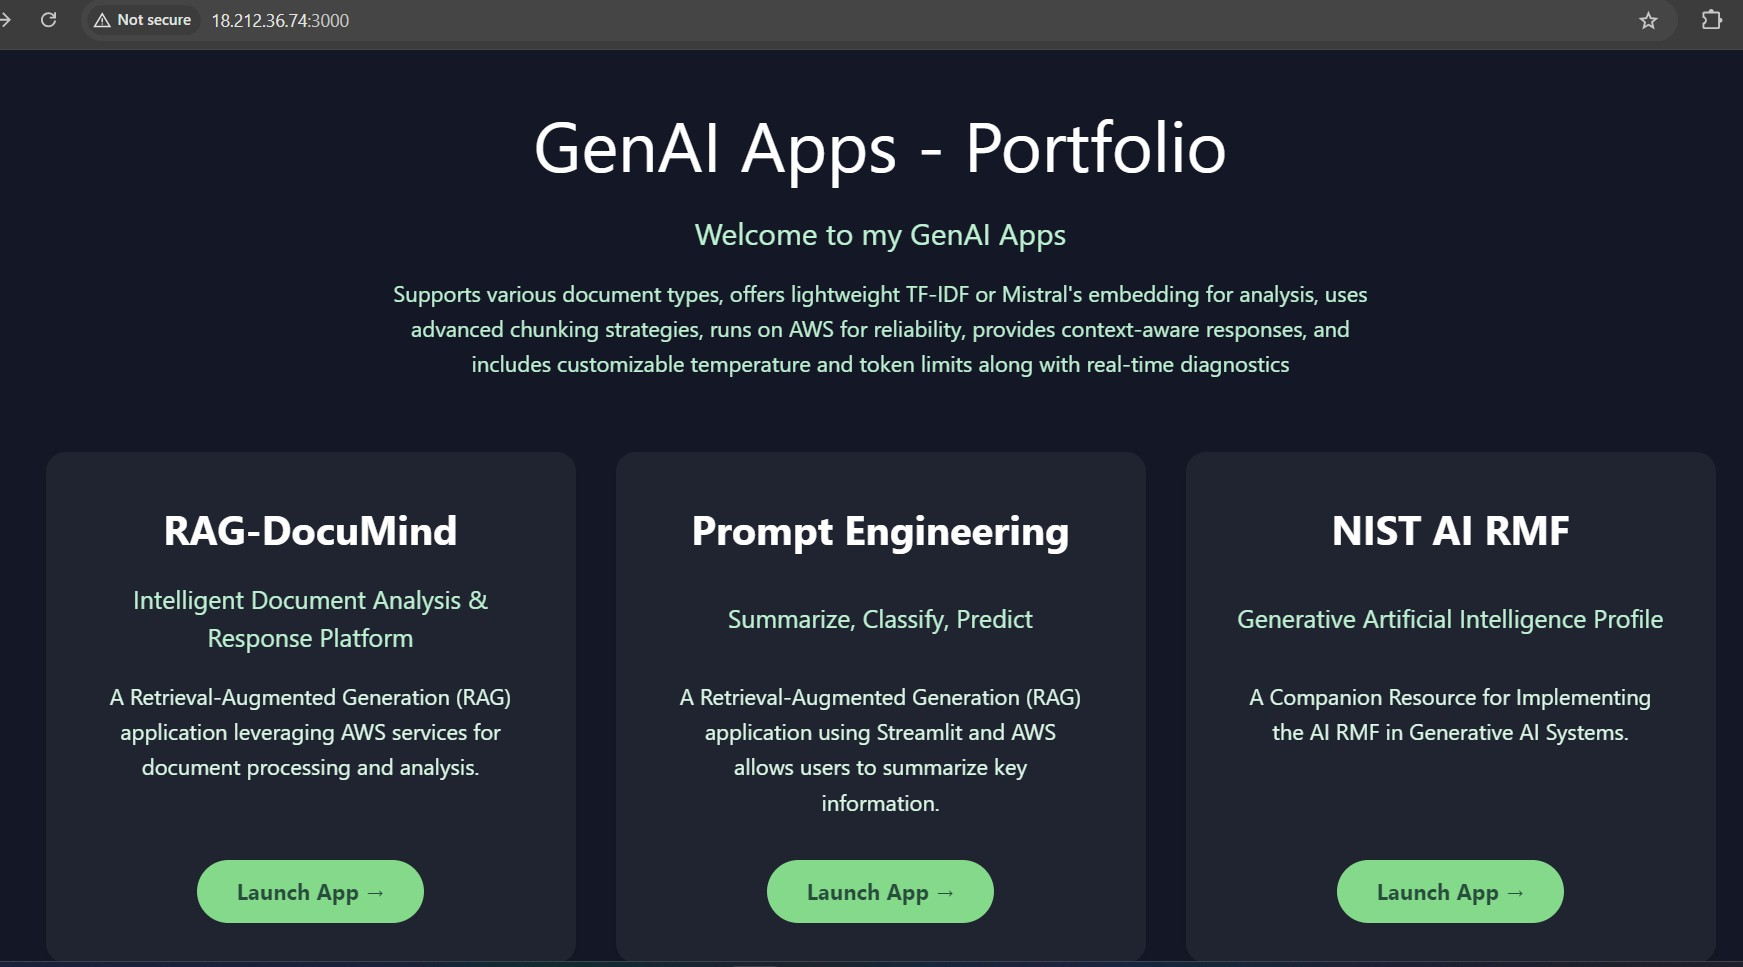
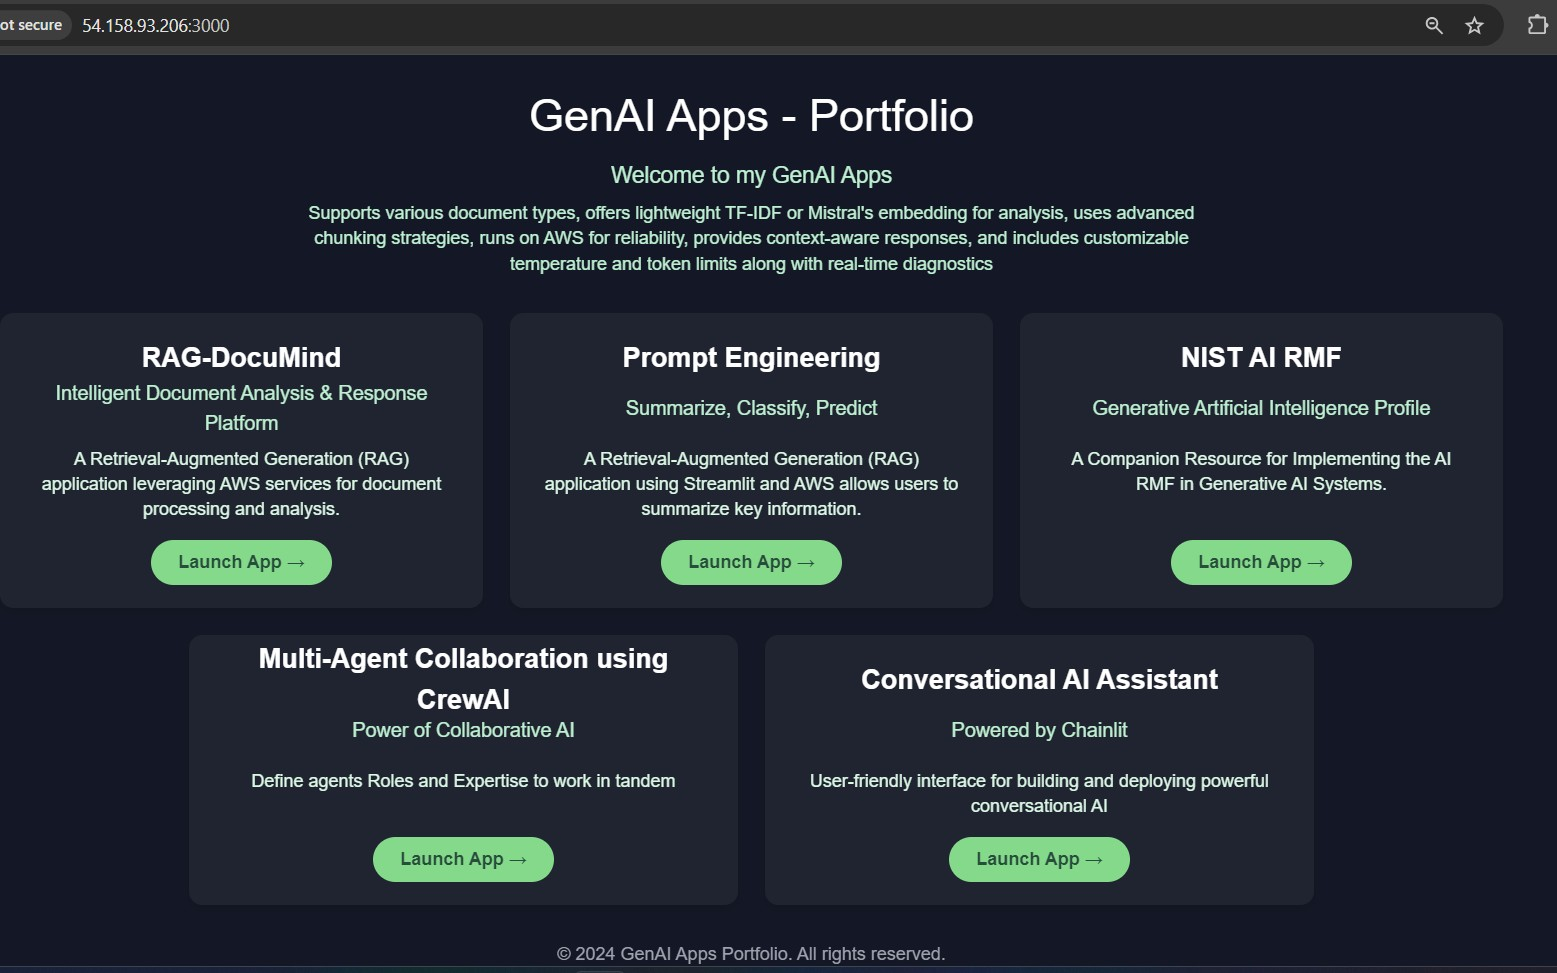
added conversational ai-portfolio update

diff --git a/GenAIApps-Portfolio/src/App.js b/GenAIApps-Portfolio/src/App.js
@@ -1,6 +1,6 @@
 import React from 'react';
 
-const EC2_PUBLIC_IP = '18.212.36.74';
+const EC2_PUBLIC_IP = '54.158.93.206';
 
 // Common styles for reusability and consistency
 const cardStyles = {
@@ -85,69 +85,100 @@ const App = () => {
         </p>
       </div>
 
-      {/* Two Column Layout with optimized spacing */}
+      {/* Three-Two Row Layout with optimized spacing */}
       <div style={{ 
         maxWidth: '1400px',
         margin: '0 auto', 
         padding: '0 2rem',
-        display: 'grid',
-        gridTemplateColumns: 'repeat(2, 1fr)',
-        gap: '1.5rem'      // Reduced from 2rem
+        display: 'flex',
+        flexDirection: 'column',
+        gap: '1.5rem'
       }}>
-        {/* First App */}
-        <div style={cardStyles}>
-          <a href={`http://${EC2_PUBLIC_IP}:8501`} style={{ textDecoration: 'none', color: 'white', height: '100%', display: 'flex', flexDirection: 'column' }}>
-            <h2 style={titleStyles}>RAG-DocuMind</h2>
-            <h3 style={subtitleStyles}>Intelligent Document Analysis & Response Platform</h3>
-            <p style={descriptionStyles}>
-              A Retrieval-Augmented Generation (RAG) application leveraging AWS services for document processing and analysis.
-            </p>
-            <div style={{ textAlign: 'center' }}>
-              <button style={buttonStyles}>Launch App →</button>
-            </div>
-          </a>
+        {/* First Row - Three Apps */}
+        <div style={{
+          display: 'grid',
+          gridTemplateColumns: 'repeat(3, 1fr)',
+          gap: '1.5rem'
+        }}>
+          {/* First App */}
+          <div style={cardStyles}>
+            <a href={`http://${EC2_PUBLIC_IP}:8501`} style={{ textDecoration: 'none', color: 'white', height: '100%', display: 'flex', flexDirection: 'column' }}>
+              <h2 style={titleStyles}>RAG-DocuMind</h2>
+              <h3 style={subtitleStyles}>Intelligent Document Analysis & Response Platform</h3>
+              <p style={descriptionStyles}>
+                A Retrieval-Augmented Generation (RAG) application leveraging AWS services for document processing and analysis.
+              </p>
+              <div style={{ textAlign: 'center' }}>
+                <button style={buttonStyles}>Launch App →</button>
+              </div>
+            </a>
+          </div>
+
+          {/* Second App */}
+          <div style={cardStyles}>
+            <a href={`http://${EC2_PUBLIC_IP}:8502`} style={{ textDecoration: 'none', color: 'white', height: '100%', display: 'flex', flexDirection: 'column' }}>
+              <h2 style={titleStyles}>Prompt Engineering</h2>
+              <h3 style={subtitleStyles}>Summarize, Classify, Predict</h3>
+              <p style={descriptionStyles}>
+                A Retrieval-Augmented Generation (RAG) application using Streamlit and AWS allows users to summarize key information.
+              </p>
+              <div style={{ textAlign: 'center' }}>
+                <button style={buttonStyles}>Launch App →</button>
+              </div>
+            </a>
+          </div>
+
+          {/* Third App */}
+          <div style={cardStyles}>
+            <a href={`http://${EC2_PUBLIC_IP}:8503`} style={{ textDecoration: 'none', color: 'white', height: '100%', display: 'flex', flexDirection: 'column' }}>
+              <h2 style={titleStyles}>NIST AI RMF</h2>
+              <h3 style={subtitleStyles}>Generative Artificial Intelligence Profile</h3>
+              <p style={descriptionStyles}>
+                A Companion Resource for Implementing the AI RMF in Generative AI Systems.
+              </p>
+              <div style={{ textAlign: 'center' }}>
+                <button style={buttonStyles}>Launch App →</button>
+              </div>
+            </a>
+          </div>
         </div>
 
-        {/* Second App */}
-        <div style={cardStyles}>
-          <a href={`http://${EC2_PUBLIC_IP}:8502`} style={{ textDecoration: 'none', color: 'white', height: '100%', display: 'flex', flexDirection: 'column' }}>
-            <h2 style={titleStyles}>Prompt Engineering</h2>
-            <h3 style={subtitleStyles}>Summarize, Classify, Predict</h3>
-            <p style={descriptionStyles}>
-              A Retrieval-Augmented Generation (RAG) application using Streamlit and AWS allows users to summarize key information.
-            </p>
-            <div style={{ textAlign: 'center' }}>
-              <button style={buttonStyles}>Launch App →</button>
-            </div>
-          </a>
-        </div>
+        {/* Second Row - Two Apps */}
+        <div style={{
+          display: 'grid',
+          gridTemplateColumns: 'repeat(2, 1fr)',
+          gap: '1.5rem',
+          maxWidth: '1000px',  // Slightly narrower to maintain visual balance
+          margin: '0 auto',    // Center the second row
+          width: '100%'
+        }}>
+          {/* Fourth App */}
+          <div style={cardStyles}>
+            <a href={`http://${EC2_PUBLIC_IP}:8504`} style={{ textDecoration: 'none', color: 'white', height: '100%', display: 'flex', flexDirection: 'column' }}>
+              <h2 style={titleStyles}>Multi-Agent Collaboration using CrewAI</h2>
+              <h3 style={subtitleStyles}>Power of Collaborative AI</h3>
+              <p style={descriptionStyles}>
+                Define agents Roles and Expertise to work in tandem
+              </p>
+              <div style={{ textAlign: 'center' }}>
+                <button style={buttonStyles}>Launch App →</button>
+              </div>
+            </a>
+          </div>
 
-        {/* Third App */}
-        <div style={cardStyles}>
-          <a href={`http://${EC2_PUBLIC_IP}:8503`} style={{ textDecoration: 'none', color: 'white', height: '100%', display: 'flex', flexDirection: 'column' }}>
-            <h2 style={titleStyles}>NIST AI RMF</h2>
-            <h3 style={subtitleStyles}>Generative Artificial Intelligence Profile</h3>
-            <p style={descriptionStyles}>
-              A Companion Resource for Implementing the AI RMF in Generative AI Systems.
-            </p>
-            <div style={{ textAlign: 'center' }}>
-              <button style={buttonStyles}>Launch App →</button>
-            </div>
-          </a>
-        </div>
-
-        {/* Fourth App */}
-        <div style={cardStyles}>
-          <a href={`http://${EC2_PUBLIC_IP}:8504`} style={{ textDecoration: 'none', color: 'white', height: '100%', display: 'flex', flexDirection: 'column' }}>
-            <h2 style={titleStyles}>Multi-Agent Collaboration using CrewAI</h2>
-            <h3 style={subtitleStyles}>Power of Collaborative AI</h3>
-            <p style={descriptionStyles}>
-              Define agents Roles and Expertise to work in tandem
-            </p>
-            <div style={{ textAlign: 'center' }}>
-              <button style={buttonStyles}>Launch App →</button>
-            </div>
-          </a>
+          {/* Fifth App */}
+          <div style={cardStyles}>  {/* Fixed: Removed extra closing tag */}
+            <a href={`http://${EC2_PUBLIC_IP}:8505`} style={{ textDecoration: 'none', color: 'white', height: '100%', display: 'flex', flexDirection: 'column' }}>
+              <h2 style={titleStyles}>Conversational AI Assistant</h2>
+              <h3 style={subtitleStyles}>Powered by Chainlit</h3>
+              <p style={descriptionStyles}>
+                User-friendly interface for building and deploying powerful conversational AI
+              </p>
+              <div style={{ textAlign: 'center' }}>
+                <button style={buttonStyles}>Launch App →</button>
+              </div>
+            </a>
+          </div>
         </div>
       </div>
 

diff --git a/GenAIApps-Portfolio/ConversationalAI_Assistant_Using_Chainlit.py b/GenAIApps-Portfolio/ConversationalAI_Assistant_Using_Chainlit.py
@@ -1,0 +1,107 @@
+#This is a Conversational AI Chat Application
+#It uses the Mistral AI API to generate responses based on user input and uploaded files
+#It supports text messages and file uploads in .txt, .pdf, .doc, and .docx formats
+
+# Import required libraries
+import chainlit as cl
+import os
+import aiohttp
+from typing import Dict, List
+import PyPDF2
+from docx import Document
+import io
+
+# API configuration for Mistral
+MISTRAL_API_KEY = os.getenv('MISTRAL_API_KEY')  # Get API key from environment variables
+MISTRAL_API_ENDPOINT = "https://api.mistral.ai/v1/chat/completions"
+
+async def process_file(file: cl.File) -> str:
+    """
+    Process uploaded files and extract text content based on file type
+    Supports: .txt, .pdf, .doc, .docx
+    """
+    try:
+        file_ext = os.path.splitext(file.name)[1].lower()  # Extract file extension
+        
+        # Handle text files - direct UTF-8 decode
+        if file_ext == '.txt':
+            return file.content.decode('utf-8')
+        
+        # Handle PDF files - extract text from all pages
+        elif file_ext == '.pdf':
+            pdf_reader = PyPDF2.PdfReader(io.BytesIO(file.content))
+            return "\n".join(page.extract_text() for page in pdf_reader.pages)
+        
+        # Handle Word documents - extract text from paragraphs
+        elif file_ext in ['.docx', '.doc']:
+            doc = Document(io.BytesIO(file.content))
+            return "\n".join(paragraph.text for paragraph in doc.paragraphs)
+        
+        else:
+            return f"Unsupported file format: {file.name}"
+    except Exception as e:
+        return f"Error processing file: {str(e)}"
+
+@cl.on_chat_start
+async def start():
+    """Initialize chat with welcome message"""
+    await cl.Message(
+        content="👋 Welcome! You can upload .txt, .pdf, .doc and .docx files for analysis."
+    ).send()
+
+async def call_mistral_api(messages: List[Dict]) -> str:
+    """
+    Make API calls to Mistral AI
+    messages: List of conversation history in format [{"role": "user/assistant", "content": "message"}]
+    """
+    headers = {
+        "Authorization": f"Bearer {MISTRAL_API_KEY}",
+        "Content-Type": "application/json"
+    }
+    data = {
+        "model": "mistral-small-latest",
+        "messages": messages,
+        "max_tokens": 900  # Maximum response length
+    }
+    
+    try:
+        # Make async API request
+        async with aiohttp.ClientSession() as session:
+            async with session.post(MISTRAL_API_ENDPOINT, headers=headers, json=data) as response:
+                if response.status == 200:
+                    result = await response.json()
+                    return result["choices"][0]["message"]["content"]
+                return f"API Error: {response.status}"
+    except Exception as e:
+        return f"Error: {str(e)}"
+
+@cl.on_message
+async def main(message: cl.Message):
+    """
+    Main message handler - processes both text messages and file uploads
+    Maintains conversation history in session
+    """
+    # Get or initialize conversation history
+    history = cl.user_session.get("history", [])
+    
+    # Handle file uploads
+    if message.elements:
+        for element in message.elements:
+            if isinstance(element, cl.File):
+                content = await process_file(element)
+                await cl.Message(f"Processed file: {element.name}").send()
+                # Add first 1000 chars of file content to history
+                history.append({"role": "user", "content": f"File content: {content[:1000]}"})
+
+    # Add user message to history
+    history.append({"role": "user", "content": message.content})
+    
+    # Get AI response
+    response = await call_mistral_api(history)
+    
+    # Add AI response to history
+    history.append({"role": "assistant", "content": response})
+    
+    # Update session history and send response
+    cl.user_session.set("history", history)
+    await cl.Message(content=response).send()

diff --git a/GenAIApps-Portfolio/README.md b/GenAIApps-Portfolio/README.md
@@ -131,6 +131,9 @@ From React App you can launch other apps or directly go to other Apps.
 ### 7. App4: Multi-AgentCollaboration using CrewAI 
 ![App4: Multi-AgentCollaboration using CrewAI ](Screenshots/5.jpg)
 
+### 8. App5: Conversational AI Assistant using Chainlit
+![App5: Conversational AI Assistant using Chainlit](Screenshots/6.jpg)
+
 
 
 
